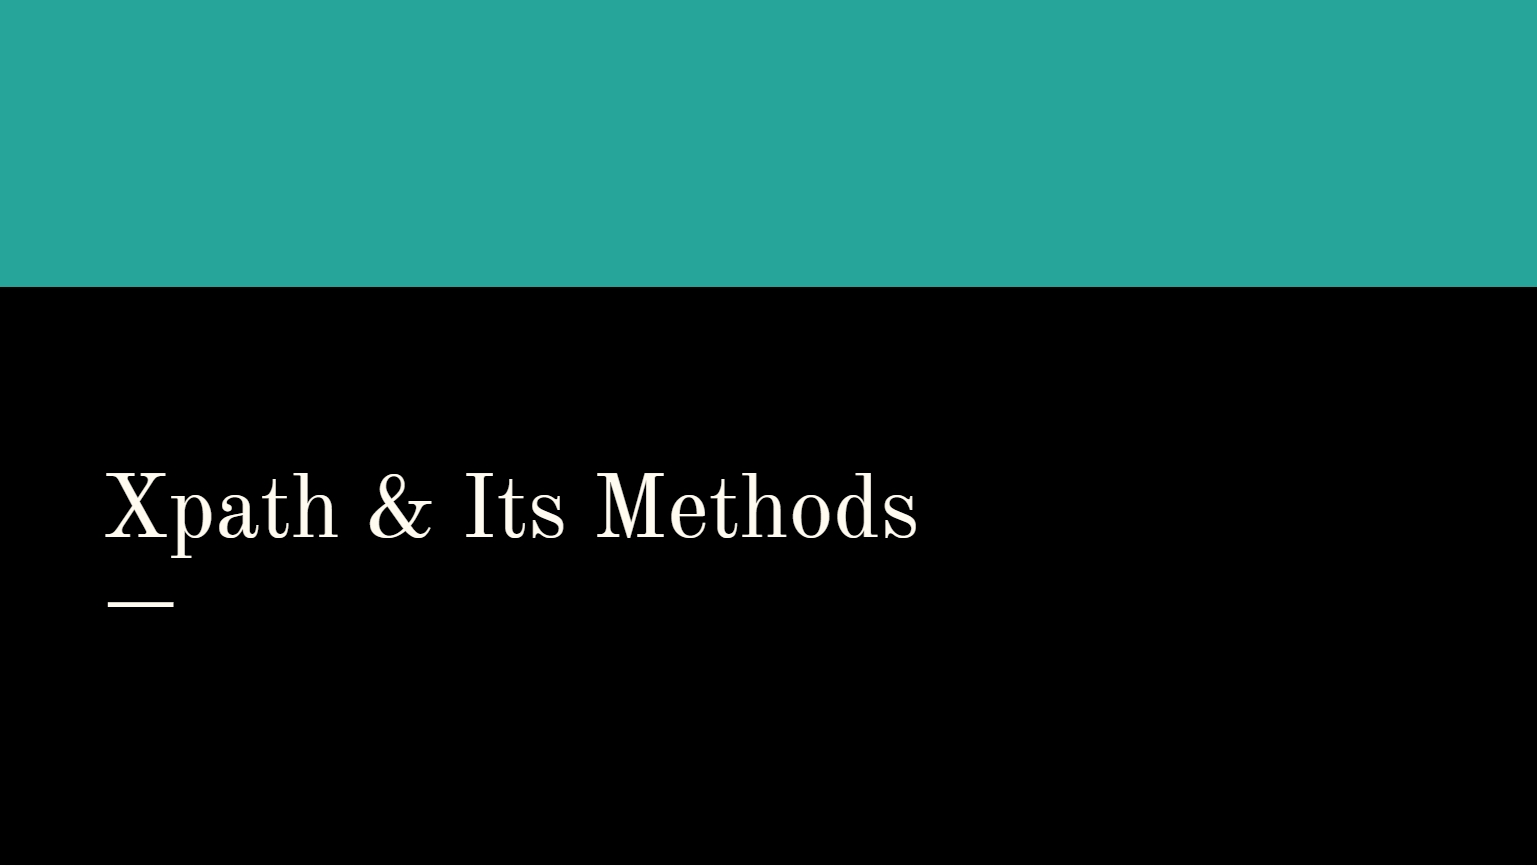
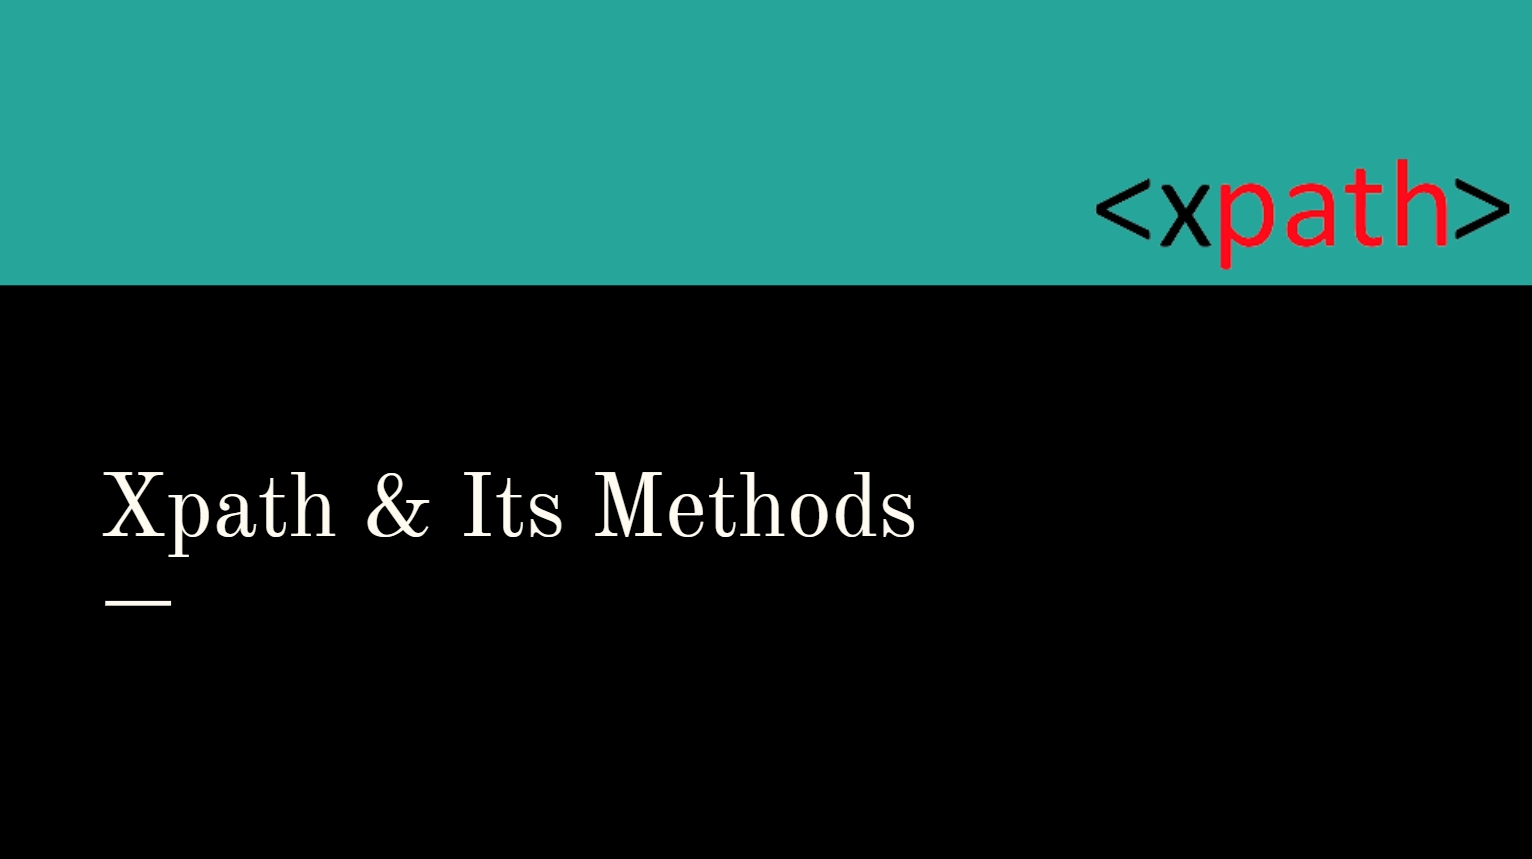
Added
1. Updated first slide
2. Added silde no 12
3. Updated readme.md for slide no 12

diff --git a/README.md b/README.md
@@ -58,3 +58,7 @@
 >![Image](Xpath_11.jpg)
 
 ---
+
+>![Image](Xpath_12.jpg)
+
+---
